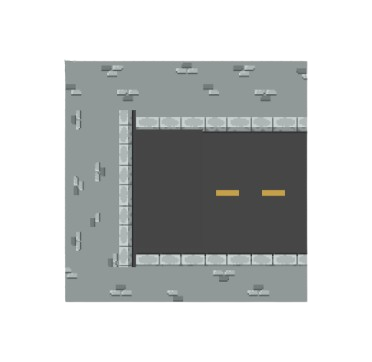
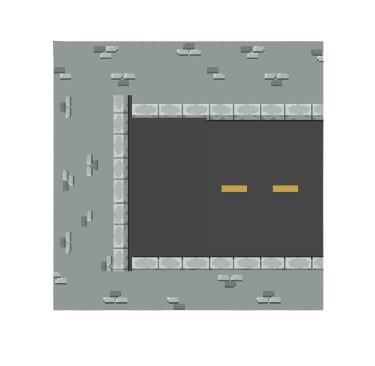
image resize

Changed region(s): [[0.1183, 0.0912, 0.8871, 0.8508], [0.5618, 0.4862, 0.6801, 0.547]]

diff --git a/JOXE-game/zobjectfiles/road.py b/JOXE-game/zobjectfiles/road.py
@@ -19,17 +19,13 @@ class Road(Object):
         self.update_image()
 
     def update_image(self):
-        # Load the road image based on its type
         road_image_path = f'./assets/resources/road/{self.type}.png'
         image = pygame.image.load(road_image_path)
 
-        # Calculate new size
         new_size = (int(self.grid_size * (self.scale + 0.1)), int(self.grid_size * (self.scale + 0.11)))
 
-        # Scale the image
         self.image = pygame.transform.scale(image, new_size)
 
-        # Apply rotation
         self.image = pygame.transform.rotate(self.image, self.rotation)
 
     def set_rotation(self, rotation):
